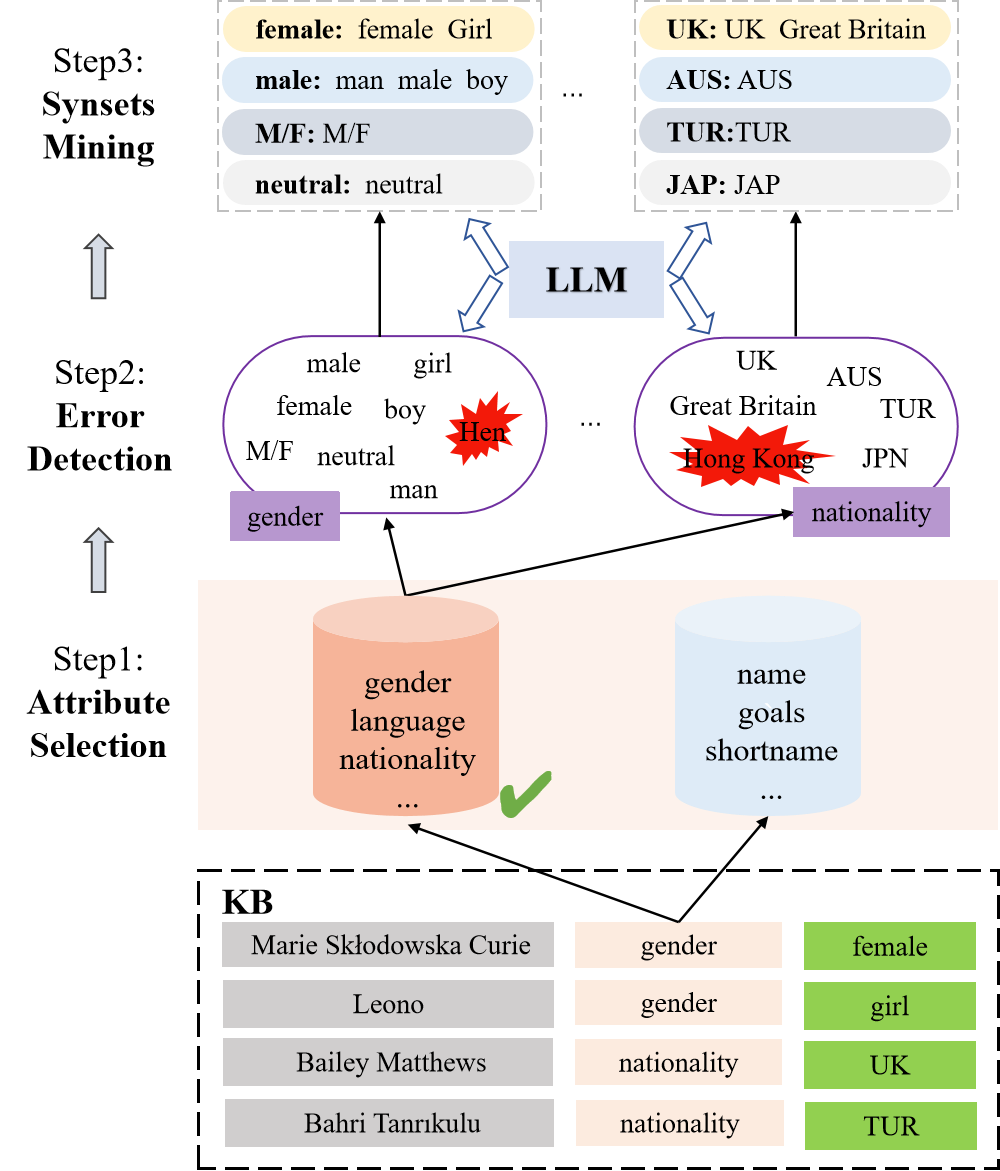
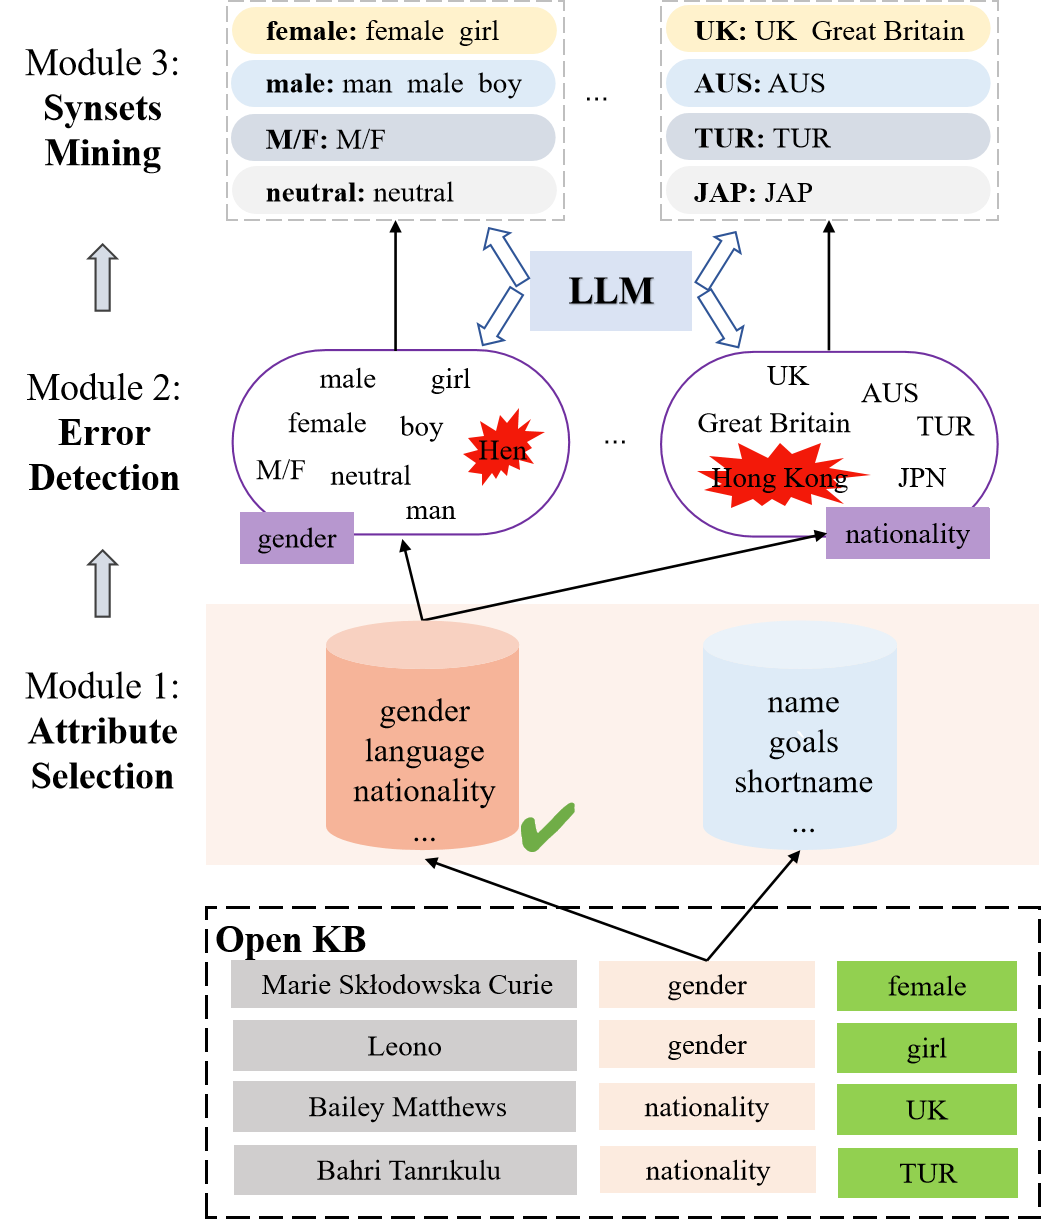
readme

diff --git a/README.md b/README.md
@@ -7,9 +7,9 @@ Source code and dataset for paper: How do LLMs assist the Canonicalization of At
 <img src = './images/caf.png' width="500">
 </div>
 
-the first two step (attribute selection and error detection require human involvement) are not included in this repository.
+the first two modules (attribute selection and error detection require human involvement) are not included in this repository.
 
-The repository is only for the third step 'Synsets Mining', which is a fully-automatic process.
+The repository is only for the third module 'Synsets Mining', which is a fully-automatic process.
 
 ### Dependencies
 
